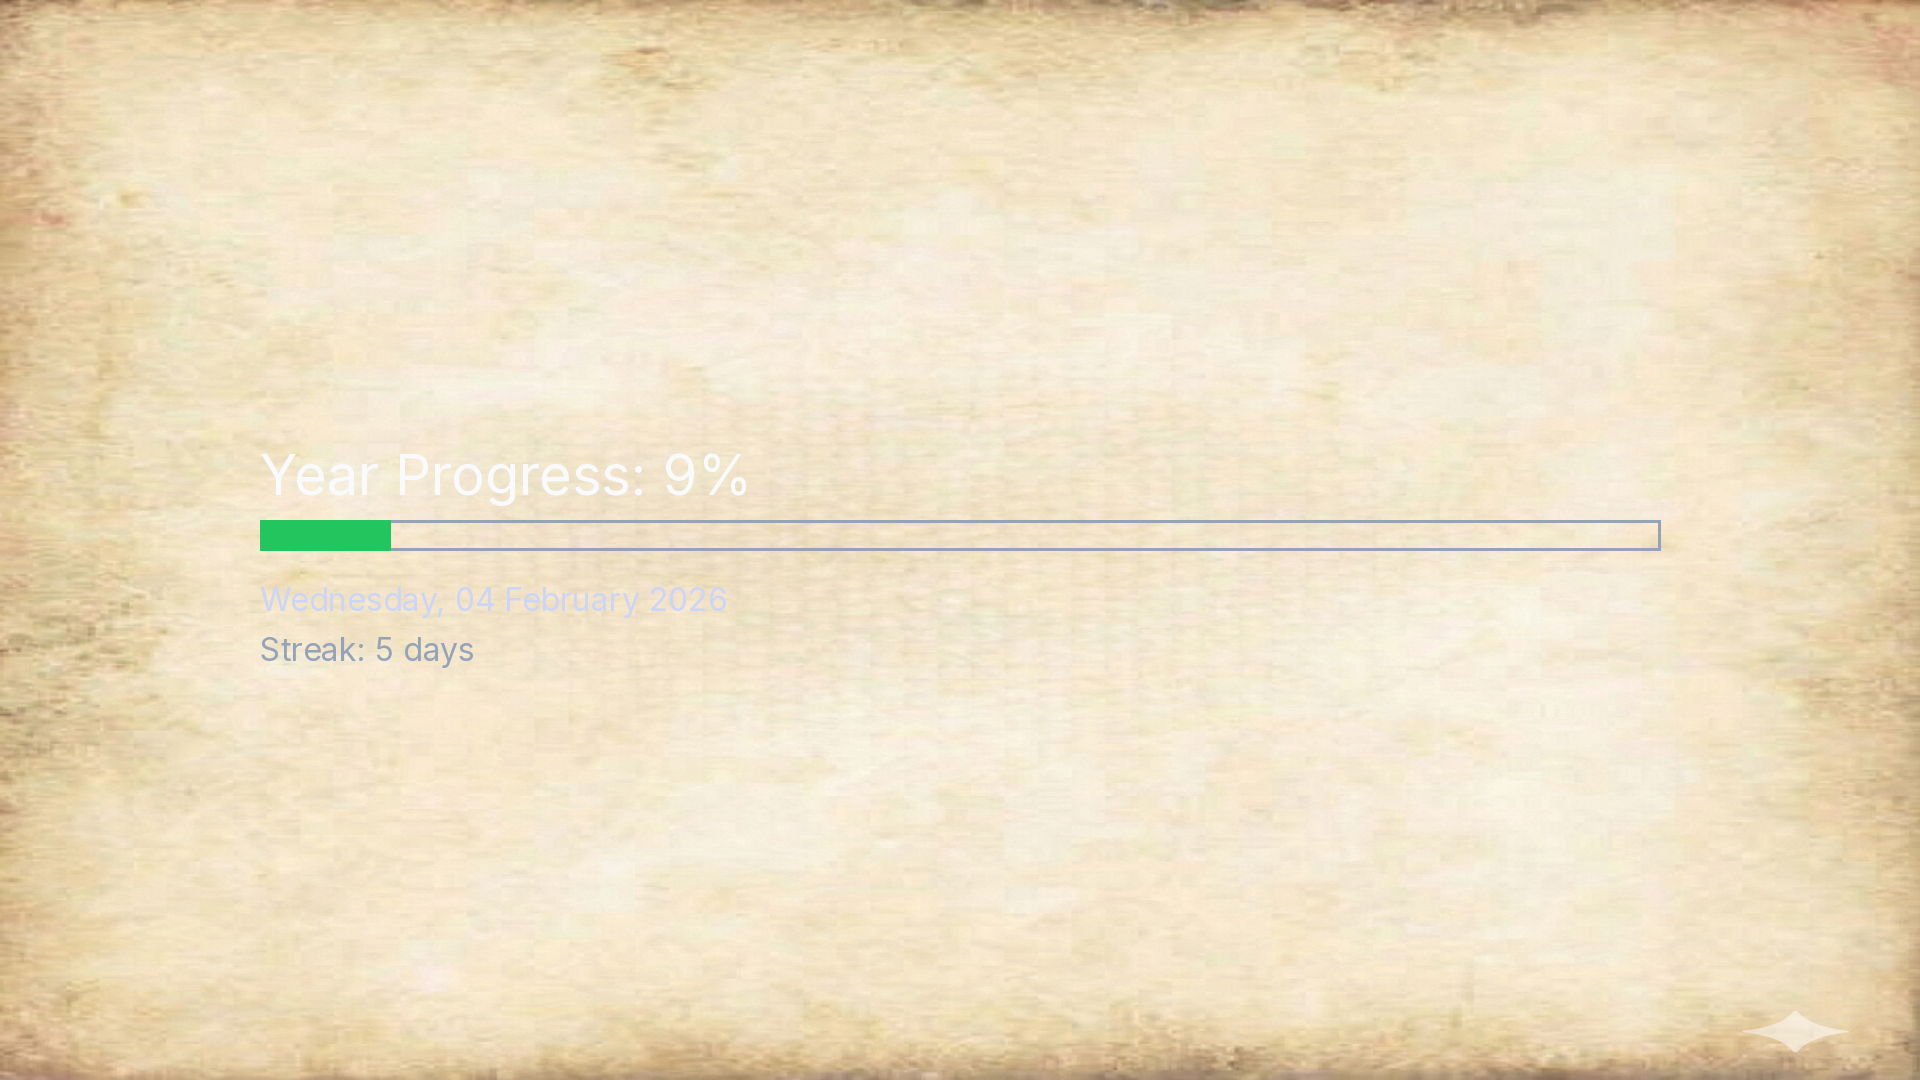
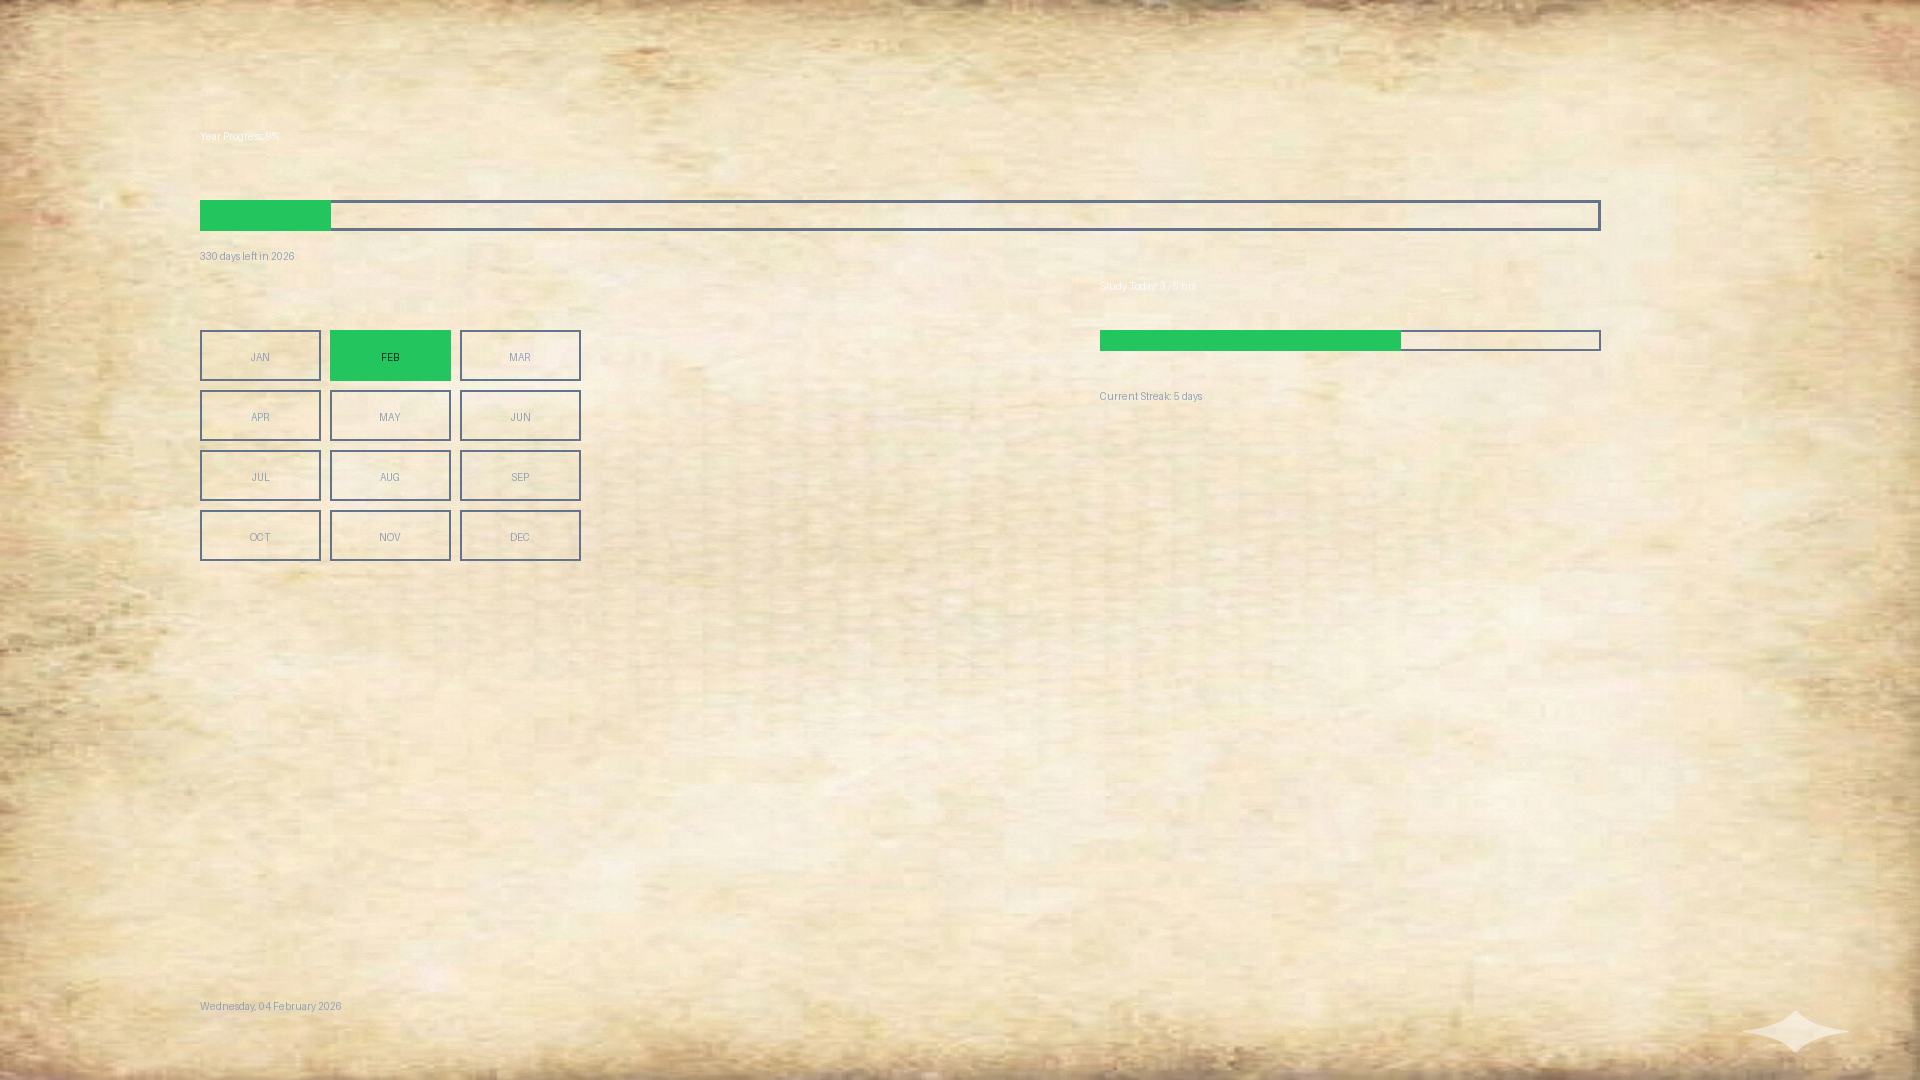
enhanced progress tracking bar and added month block.

diff --git a/windows/generate_wallpaper.py b/windows/generate_wallpaper.py
@@ -2,83 +2,163 @@ from PIL import Image, ImageDraw, ImageFont
 from datetime import date
 from pathlib import Path
 import json
+import calendar
 
-# Base directory (chronoframe/)
+# ========================
+# PATH SETUP
+# ========================
 BASE_DIR = Path(__file__).resolve().parent.parent
-
-# Paths
 ASSETS_DIR = BASE_DIR / "assets"
 DATA_DIR = BASE_DIR / "data"
 OUTPUT_DIR = BASE_DIR / "output"
 
-FONT_PATH = ASSETS_DIR / "fonts" / "InterVariable.ttf"
+FONT_PATH = ASSETS_DIR / "fonts" / "Inter-Regular.ttf"
 BG_PATH = ASSETS_DIR / "backgrounds" / "default.png"
 STATS_PATH = DATA_DIR / "stats.json"
 OUTPUT_PATH = OUTPUT_DIR / "wallpaper.png"
 
-# Ensure output directory exists
 OUTPUT_DIR.mkdir(exist_ok=True)
 
-# Load stats
+# ========================
+# LOAD DATA
+# ========================
 with open(STATS_PATH, "r", encoding="utf-8") as f:
     stats = json.load(f)
 
-# Year progress
+# ========================
+# TIME CALCULATIONS
+# ========================
 today = date.today()
 start = date(today.year, 1, 1)
 end = date(today.year, 12, 31)
-progress = (today - start).days / (end - start).days
 
-# Canvas
+days_passed = (today - start).days
+total_days = (end - start).days
+days_left = total_days - days_passed
+
+year_progress = days_passed / total_days
+
+# ========================
+# CANVAS
+# ========================
 WIDTH, HEIGHT = 1920, 1080
-img = Image.open(BG_PATH).resize((WIDTH, HEIGHT))
+
+if BG_PATH.exists():
+    img = Image.open(BG_PATH).resize((WIDTH, HEIGHT))
+else:
+    img = Image.new("RGB", (WIDTH, HEIGHT), "#0f172a")
+
 draw = ImageDraw.Draw(img)
 
+# ========================
+# FONTS (with fallback)
+# ========================
 try:
     font_big = ImageFont.truetype(str(FONT_PATH), 56)
-    font_small = ImageFont.truetype(str(FONT_PATH), 32)
+    font_mid = ImageFont.truetype(str(FONT_PATH), 36)
+    font_small = ImageFont.truetype(str(FONT_PATH), 26)
 except OSError:
-    font_big = ImageFont.load_default()
-    font_small = ImageFont.load_default()
+    font_big = font_mid = font_small = ImageFont.load_default()
 
+# ========================
+# COLORS
+# ========================
+WHITE = "#f8fafc"
+MUTED = "#94a3b8"
+GREEN = "#22c55e"
+OUTLINE = "#64748b"
 
-# Progress bar
-BAR_X, BAR_Y = 260, 520
+# ========================
+# WIDGET 1 — YEAR PROGRESS
+# ========================
+BAR_X, BAR_Y = 200, 200
 BAR_W, BAR_H = 1400, 30
-fill_w = int(BAR_W * progress)
+fill_w = int(BAR_W * year_progress)
 
-draw.rectangle(
-    (BAR_X, BAR_Y, BAR_X + BAR_W, BAR_Y + BAR_H),
-    outline="#94a3b8",
-    width=3
-)
-draw.rectangle(
-    (BAR_X, BAR_Y, BAR_X + fill_w, BAR_Y + BAR_H),
-    fill="#22c55e"
-)
+draw.text((BAR_X, BAR_Y - 70),
+          f"Year Progress: {int(year_progress * 100)}%",
+          fill=WHITE, font=font_big)
 
-# Text
-draw.text(
-    (BAR_X, BAR_Y - 80),
-    f"Year Progress: {int(progress * 100)}%",
-    fill="#f8fafc",
-    font=font_big
-)
+draw.rectangle((BAR_X, BAR_Y, BAR_X + BAR_W, BAR_Y + BAR_H),
+               outline=OUTLINE, width=3)
+draw.rectangle((BAR_X, BAR_Y, BAR_X + fill_w, BAR_Y + BAR_H),
+               fill=GREEN)
 
-draw.text(
-    (BAR_X, BAR_Y + 60),
-    today.strftime("%A, %d %B %Y"),
-    fill="#cbd5f5",
+draw.text((BAR_X, BAR_Y + 50),
+          f"{days_left} days left in {today.year}",
+          fill=MUTED, font=font_mid)
+
+# ========================
+# WIDGET 2 — MONTH GRID
+# ========================
+grid_x, grid_y = 200, 330
+cell_w, cell_h = 120, 50
+gap = 10
+
+months = list(calendar.month_abbr)[1:]
+current_month = today.month
+
+for i, month in enumerate(months):
+    row = i // 3
+    col = i % 3
+
+    x = grid_x + col * (cell_w + gap)
+    y = grid_y + row * (cell_h + gap)
+
+    is_current = (i + 1) == current_month
+    fill = GREEN if is_current else None
+    outline = GREEN if is_current else OUTLINE
+    text_color = "#022c22" if is_current else MUTED
+
+    draw.rectangle((x, y, x + cell_w, y + cell_h),
+                   outline=outline, width=2, fill=fill)
+
+    bbox = draw.textbbox((0, 0), month.upper(), font=font_small)
+    w = bbox[2] - bbox[0]
+    h = bbox[3] - bbox[1]
+    draw.text(
+    (x + (cell_w - w) / 2, y + (cell_h - h) / 2),
+    month.upper(),
+    fill=text_color,
     font=font_small
-)
+    )
 
-draw.text(
-    (BAR_X, BAR_Y + 110),
-    f"Streak: {stats.get('current_streak', 0)} days",
-    fill="#94a3b8",
-    font=font_small
-)
+# ========================
+# WIDGET 3 — STUDY TRACKER
+# ========================
+study_x, study_y = 1100, 330
+study_today = stats.get("study_hours_today", 0)
+study_target = stats.get("daily_target_hours", 1)
+study_ratio = min(study_today / study_target, 1.0)
 
-# Save
+draw.text((study_x, study_y - 50),
+          f"Study Today: {study_today} / {study_target} hrs",
+          fill=WHITE, font=font_mid)
+
+bar_w = 500
+bar_fill = int(bar_w * study_ratio)
+
+draw.rectangle((study_x, study_y, study_x + bar_w, study_y + 20),
+               outline=OUTLINE, width=2)
+draw.rectangle((study_x, study_y, study_x + bar_fill, study_y + 20),
+               fill=GREEN)
+
+# ========================
+# WIDGET 4 — STREAK
+# ========================
+draw.text((study_x, study_y + 60),
+          f"Current Streak: {stats.get('current_streak', 0)} days",
+          fill=MUTED, font=font_small)
+
+# ========================
+# FOOTER DATE
+# ========================
+draw.text((200, HEIGHT - 80),
+          today.strftime("%A, %d %B %Y"),
+          fill=MUTED, font=font_small)
+
+# ========================
+# SAVE
+# ========================
 img.save(OUTPUT_PATH)
 print("Wallpaper generated:", OUTPUT_PATH)
